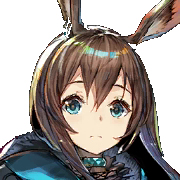
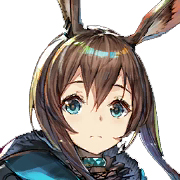
阿米娅头像
替换了图片，修改了宽度（测试）

diff --git a/assets/css/customCss.css b/assets/css/customCss.css
@@ -4,3 +4,6 @@
 #toc a {
     color: white !important;
 }
+.mdui-card-media img, .mdui-card-media video {
+    width: 100% !important;
+}
